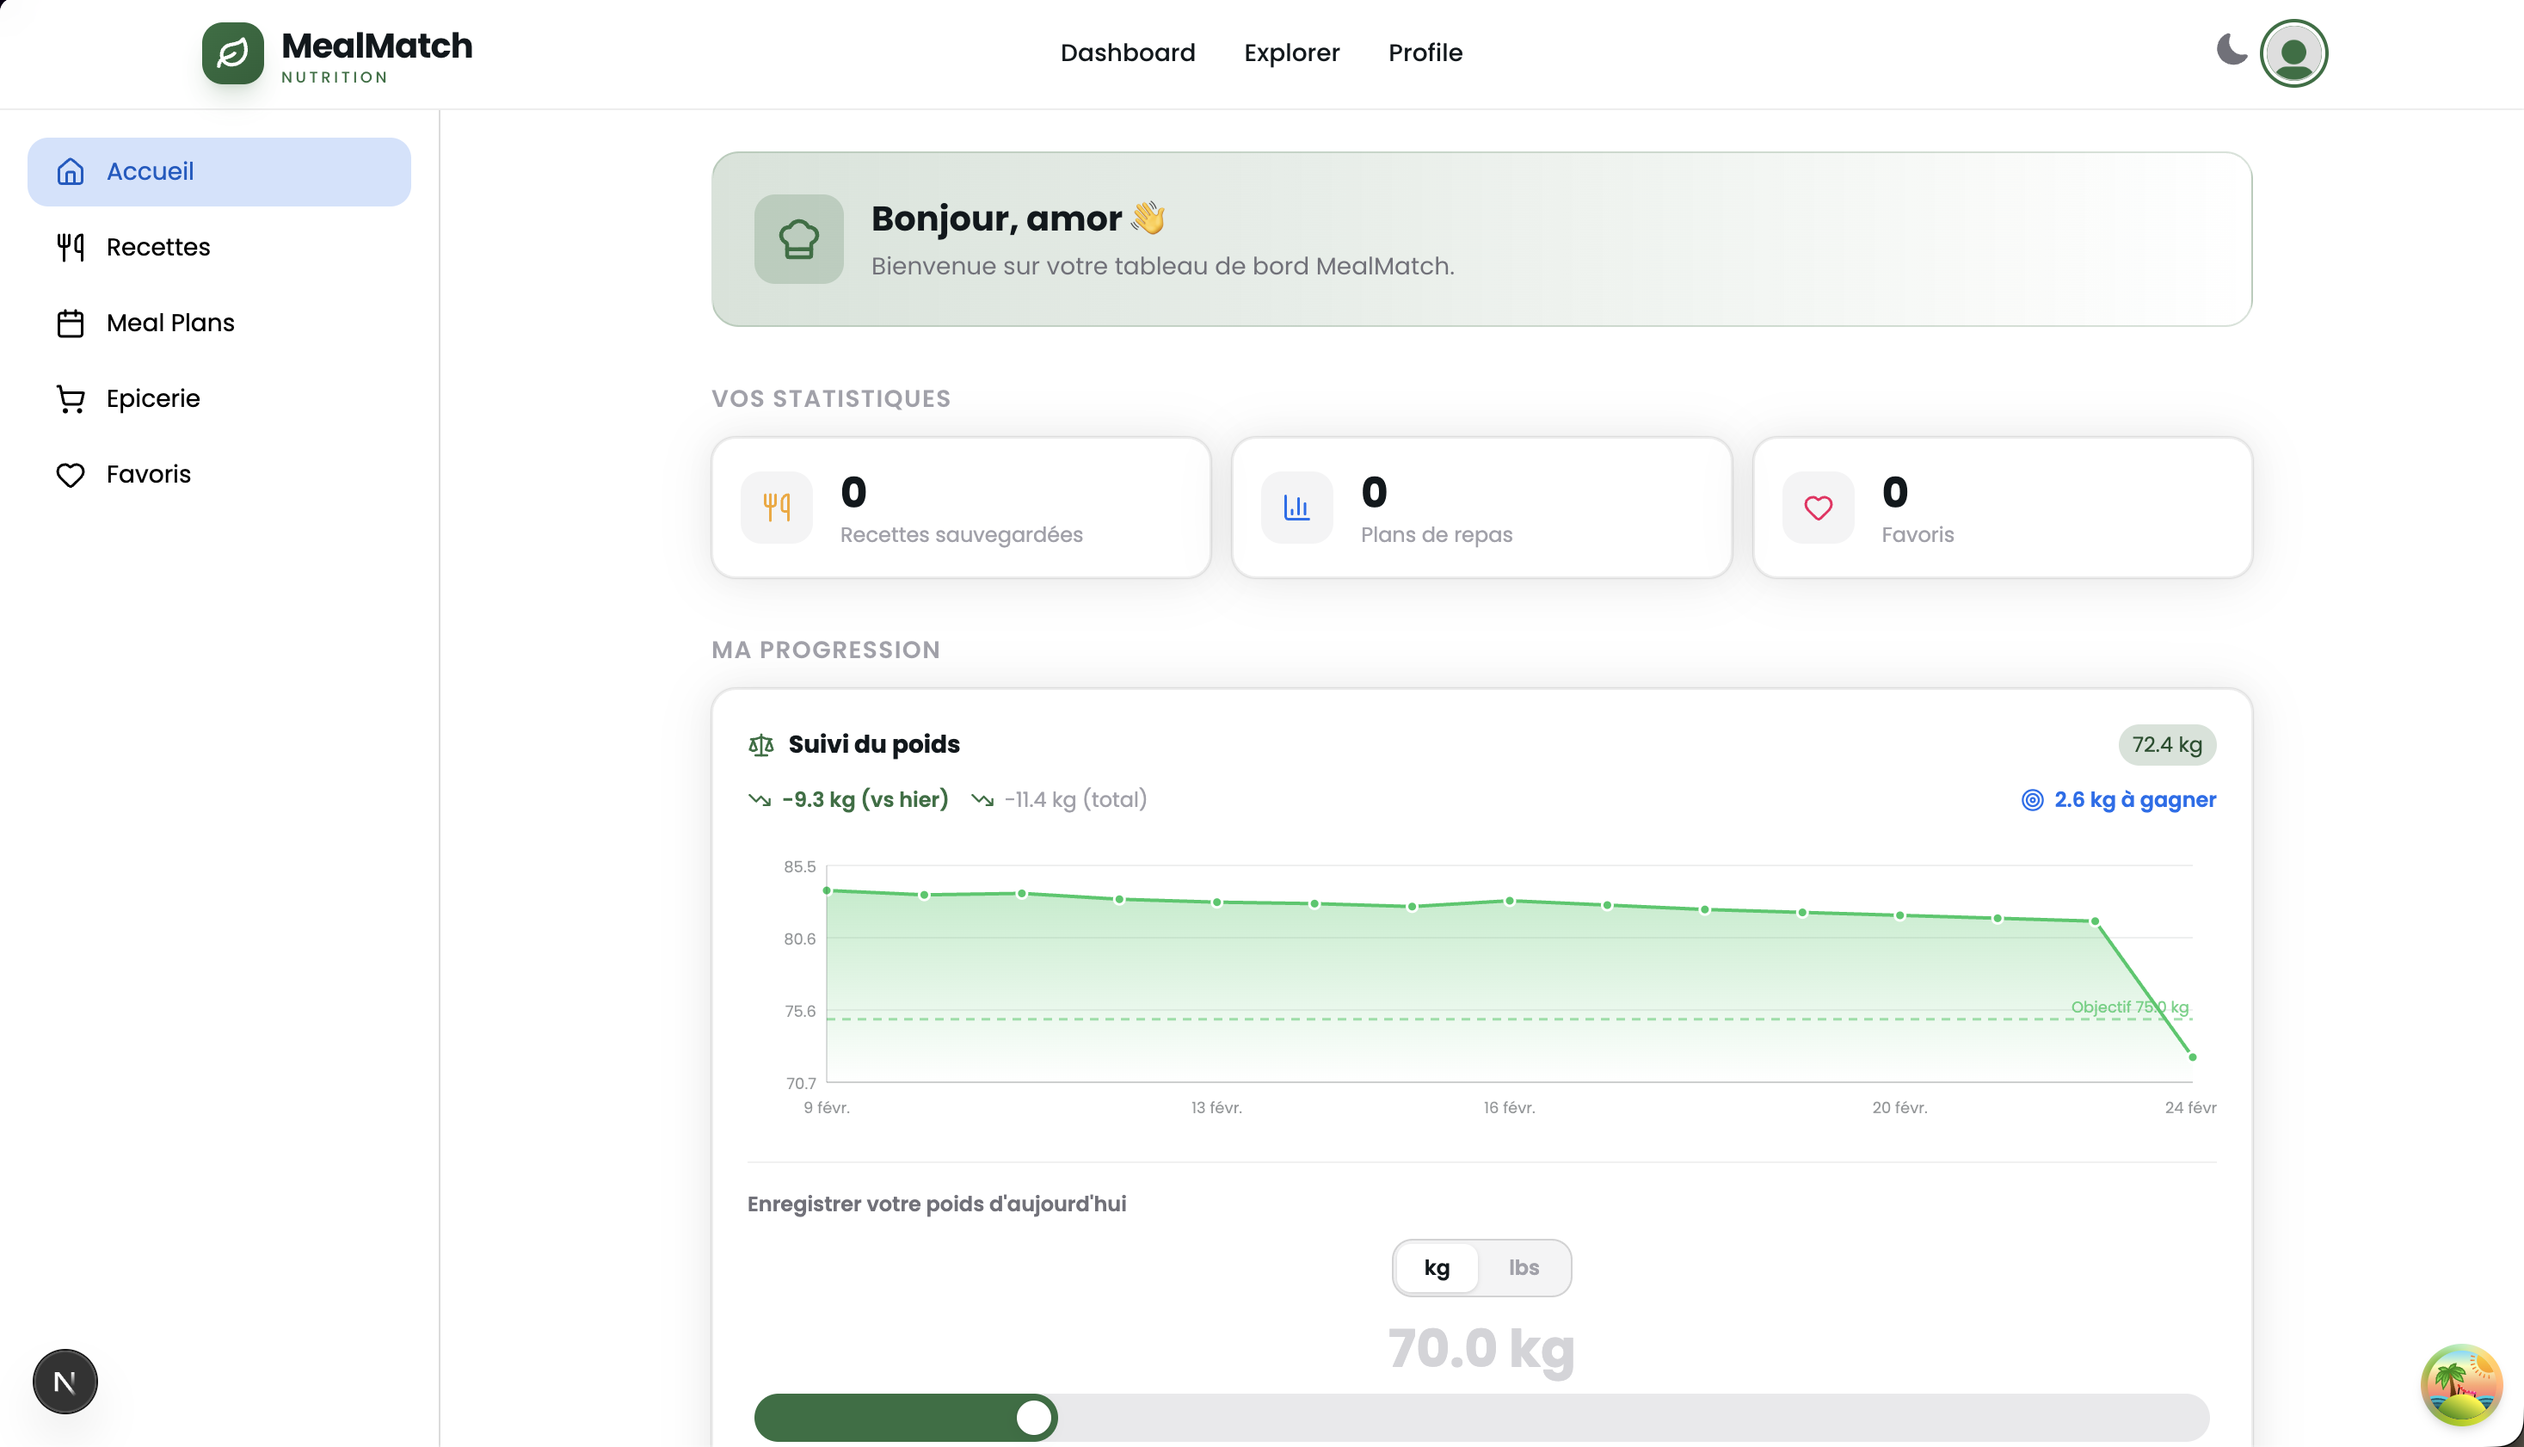
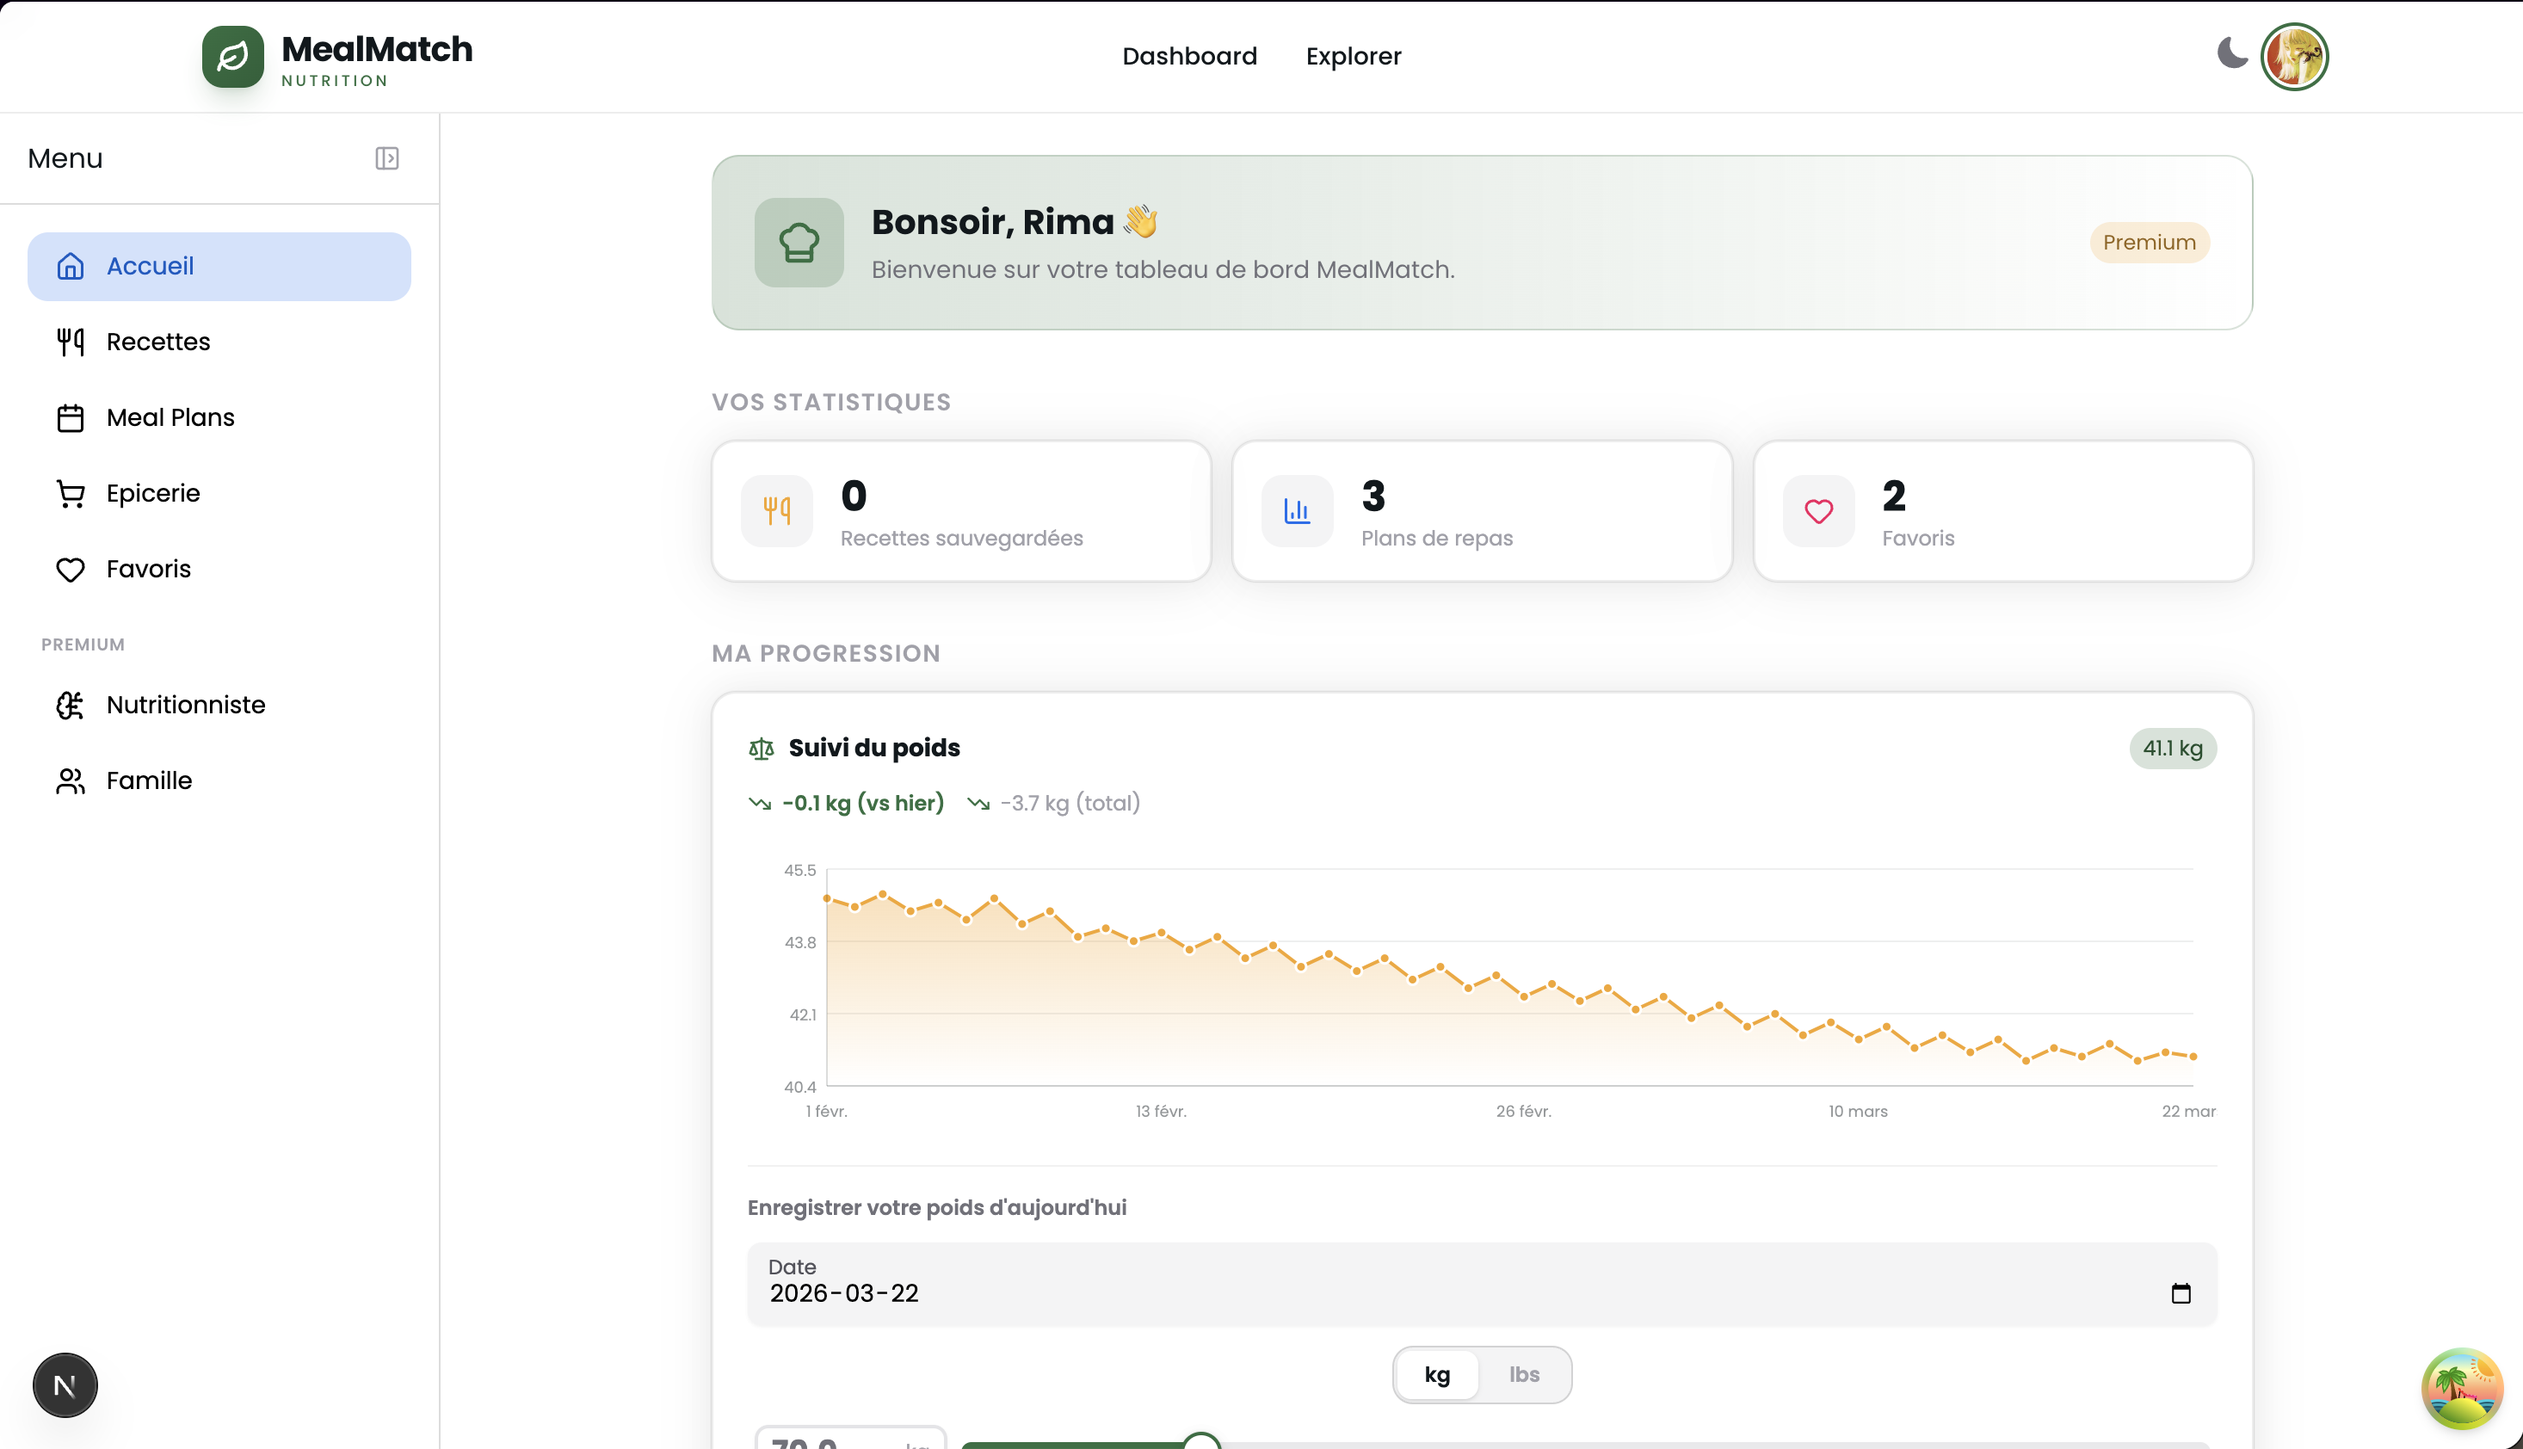
Add French translations & fix billing/Stripe APIs
Apply French copy to meal plan generation and billing cancel pages, update UI text and CTA labels. Replace client-side Supabase usage in billing success with a fetch to /api/user/plan to avoid embedding Supabase client on the client and make plan loading non-blocking. Swap alert for sonner toast in pricing checkout for better UX. Fix meal-plan generation usage check by using ISO timestamps for monthly gte comparison. Harden Stripe checkout route: validate STRIPE_SECRET_KEY, instantiate Stripe server-side, type price IDs and cast when used. Small sidebar change: remove Logo link and show "Menu" header. Updated dashboard screenshot asset.

diff --git a/app/(private)/dashboard/meal-plan/generate/page.tsx b/app/(private)/dashboard/meal-plan/generate/page.tsx
@@ -366,7 +366,7 @@ export default function GenerateMealPlanPage() {
           <div className="flex-1 min-w-0 flex items-center justify-center py-24">
             <div className="flex flex-col items-center gap-3">
               <Spinner size="lg" color="success" />
-              <p className="text-foreground/40 text-sm">Loading your plan...</p>
+              <p className="text-foreground/40 text-sm">Chargement de votre plan...</p>
             </div>
           </div>
         </div>
@@ -401,10 +401,10 @@ export default function GenerateMealPlanPage() {
                 <Spinner size="lg" color="success" />
                 <div className="text-center">
                   <p className="font-semibold text-foreground/80">
-                    Generating your meal plan...
+                    Génération de votre plan en cours...
                   </p>
                   <p className="text-xs text-foreground/40 mt-1">
-                    Our AI is crafting {config.days_count * config.meals_per_day} personalized meals for you
+                    Notre IA prépare {config.days_count * config.meals_per_day} repas personnalisés pour vous
                   </p>
                 </div>
               </div>
@@ -419,7 +419,7 @@ export default function GenerateMealPlanPage() {
                   </div>
                   <div className="flex-1">
                     <p className="font-semibold text-sm text-danger">
-                      Generation failed
+                      Échec de la génération
                     </p>
                     <p className="text-xs text-foreground/50 mt-0.5">{error}</p>
                   </div>
@@ -430,7 +430,7 @@ export default function GenerateMealPlanPage() {
                     startContent={<RefreshCw size={14} />}
                     onPress={handleGenerate}
                   >
-                    Retry
+                    Réessayer
                   </Button>
                 </CardBody>
               </Card>
@@ -452,9 +452,9 @@ export default function GenerateMealPlanPage() {
                 }`}
               >
                 <h2 className="text-sm font-bold uppercase tracking-widest text-foreground/50 mb-4">
-                  Your Meal Plan
+                  Votre plan de repas
                   <span className="ml-2 text-foreground/30 font-normal normal-case tracking-normal">
-                    — hover any meal to edit
+                    — survolez un repas pour le modifier
                   </span>
                 </h2>
                 <MealPlanGrid
@@ -481,11 +481,11 @@ export default function GenerateMealPlanPage() {
                     className="text-foreground/20 mx-auto mb-3"
                   />
                   <p className="text-foreground/40 text-sm max-w-xs">
-                    Configure your preferences and click{" "}
+                    Configurez vos préférences et cliquez sur{" "}
                     <span className="font-semibold text-foreground/60">
-                      Generate Meal Plan
+                      Générer un plan
                     </span>{" "}
-                    to get started.
+                    pour commencer.
                   </p>
                 </div>
               </div>

diff --git a/app/api/stripe/checkout/route.ts b/app/api/stripe/checkout/route.ts
@@ -3,15 +3,19 @@ import { NextRequest, NextResponse } from "next/server";
 import Stripe from "stripe";
 import { getSupabaseServer } from "@/utils/supabase-server";
 
-const stripe = new Stripe(process.env.STRIPE_SECRET_KEY!);
-
-const PRICE_IDS: Record<string, string> = {
-    student: process.env.NEXT_PUBLIC_STRIPE_PRICE_STUDENT!,
-    premium: process.env.NEXT_PUBLIC_STRIPE_PRICE_PREMIUM!,
-};
-
 export async function POST(req: NextRequest) {
     try {
+        if (!process.env.STRIPE_SECRET_KEY) {
+            return NextResponse.json({ error: "Stripe non configuré" }, { status: 503 });
+        }
+
+        const stripe = new Stripe(process.env.STRIPE_SECRET_KEY);
+
+        const PRICE_IDS: Record<string, string | undefined> = {
+            student: process.env.NEXT_PUBLIC_STRIPE_PRICE_STUDENT,
+            premium: process.env.NEXT_PUBLIC_STRIPE_PRICE_PREMIUM,
+        };
+
         const { plan, userId } = await req.json();
 
         if (!userId) {
@@ -56,7 +60,7 @@ export async function POST(req: NextRequest) {
             mode: "subscription",
             payment_method_types: ["card"],
             customer: customerId,
-            line_items: [{ price: PRICE_IDS[plan], quantity: 1 }],
+            line_items: [{ price: PRICE_IDS[plan] as string, quantity: 1 }],
             success_url: `${req.headers.get("origin")}/billing/success`,
             cancel_url: `${req.headers.get("origin")}/billing/cancel`,
         });

diff --git a/app/(public)/billing/success/page.tsx b/app/(public)/billing/success/page.tsx
@@ -2,14 +2,8 @@
 "use client";
 
 import { useEffect, useState } from "react";
-import { createClient } from "@supabase/supabase-js";
 import { Button } from "@heroui/button";
 import { useRouter } from "next/navigation";
-
-const supabase = createClient(
-    process.env.NEXT_PUBLIC_SUPABASE_URL!,
-    process.env.NEXT_PUBLIC_SUPABASE_ANON_KEY!
-);
 
 export default function BillingSuccessPage() {
     const [plan, setPlan] = useState<string | null>(null);
@@ -17,18 +11,14 @@ export default function BillingSuccessPage() {
 
     useEffect(() => {
         async function loadPlan() {
-            const { data } = await supabase.auth.getUser();
-            const userId = data.user?.id ?? null;
-
-            if (!userId) return;
-
-            const { data: profile } = await supabase
-                .from("profiles")
-                .select("plan")
-                .eq("id", userId)
-                .single();
-
-            if (profile?.plan) setPlan(profile.plan);
+            try {
+                const res = await fetch("/api/user/plan");
+                if (!res.ok) return;
+                const data = await res.json();
+                if (data.plan) setPlan(data.plan);
+            } catch {
+                // non-blocking — fallback message shown
+            }
         }
 
         loadPlan();

diff --git a/components/dashboard/DashboardSidebar.tsx b/components/dashboard/DashboardSidebar.tsx
@@ -14,8 +14,6 @@ import {
 } from "lucide-react";
 import NextLink from "next/link";
 import { usePathname } from "next/navigation";
-
-import { Logo } from "@/components/logo";
 import { useUserPlan } from "@/hooks/useUserPlan";
 
 export const navLinks = [
@@ -63,9 +61,7 @@ export default function DashboardSidebar({
     >
       {/* Header */}
       <div className="flex items-center justify-between px-4 py-3 border-b border-divider">
-        <NextLink href="/dashboard" className="flex items-center gap-2">
-          <Logo />
-        </NextLink>
+        Menu
         <button
           onClick={onToggleDesktop}
           className="p-1.5 rounded-lg hover:bg-default-100 transition-colors text-default-400"

diff --git a/app/(public)/billing/cancel/page.tsx b/app/(public)/billing/cancel/page.tsx
@@ -9,9 +9,9 @@ export default function BillingCancelPage() {
 
     return (
         <div className="max-w-2xl mx-auto p-6 text-center flex flex-col gap-6">
-            <h1 className="text-4xl font-bold text-danger">Paiement échoué ❌</h1>
+            <h1 className="text-4xl font-bold text-warning">Paiement annulé</h1>
             <p className="text-default-500 text-lg">
-                Il y a eu un problème avec ton paiement. Vérifie tes informations ou réessaie.
+                Tu as annulé le paiement. Ton plan actuel reste inchangé.
             </p>
             <Button onPress={() => router.push("/pricing")} className="mx-auto">
                 Retour à la tarification

diff --git a/app/api/meal-plan/generate/route.ts b/app/api/meal-plan/generate/route.ts
@@ -89,12 +89,12 @@ export async function POST(req: Request) {
 
     if (userPlan === "free") {
       // Monthly limit: max 5 per month for free users
-      const monthStart = format(startOfMonth(new Date()), "yyyy-MM-dd");
+      const monthStart = startOfMonth(new Date()).toISOString();
       const { count: monthlyCount } = await supabase
         .from("meal_plan_usage")
         .select("id", { count: "exact", head: true })
         .eq("user_id", userId)
-        .gte("generated_at", monthStart + "T00:00:00Z");
+        .gte("generated_at", monthStart);
 
       if ((monthlyCount ?? 0) >= limits.mealPlansPerMonth) {
         return NextResponse.json(

diff --git a/app/(public)/pricing/page.tsx b/app/(public)/pricing/page.tsx
@@ -8,6 +8,7 @@ import { Button } from "@heroui/button";
 import { Chip } from "@heroui/chip";
 import { Divider } from "@heroui/divider";
 import { CheckCircle2, Zap, Star, Users } from "lucide-react";
+import { toast } from "sonner";
 
 const plansData = [
   {
@@ -152,7 +153,7 @@ export default function PricingPage() {
 
     } catch (err: any) {
       console.error(err);
-      alert(err.message || "Erreur lors du checkout");
+      toast.error(err.message || "Erreur lors du checkout");
       setLoadingPlan(null);
     }
   }
